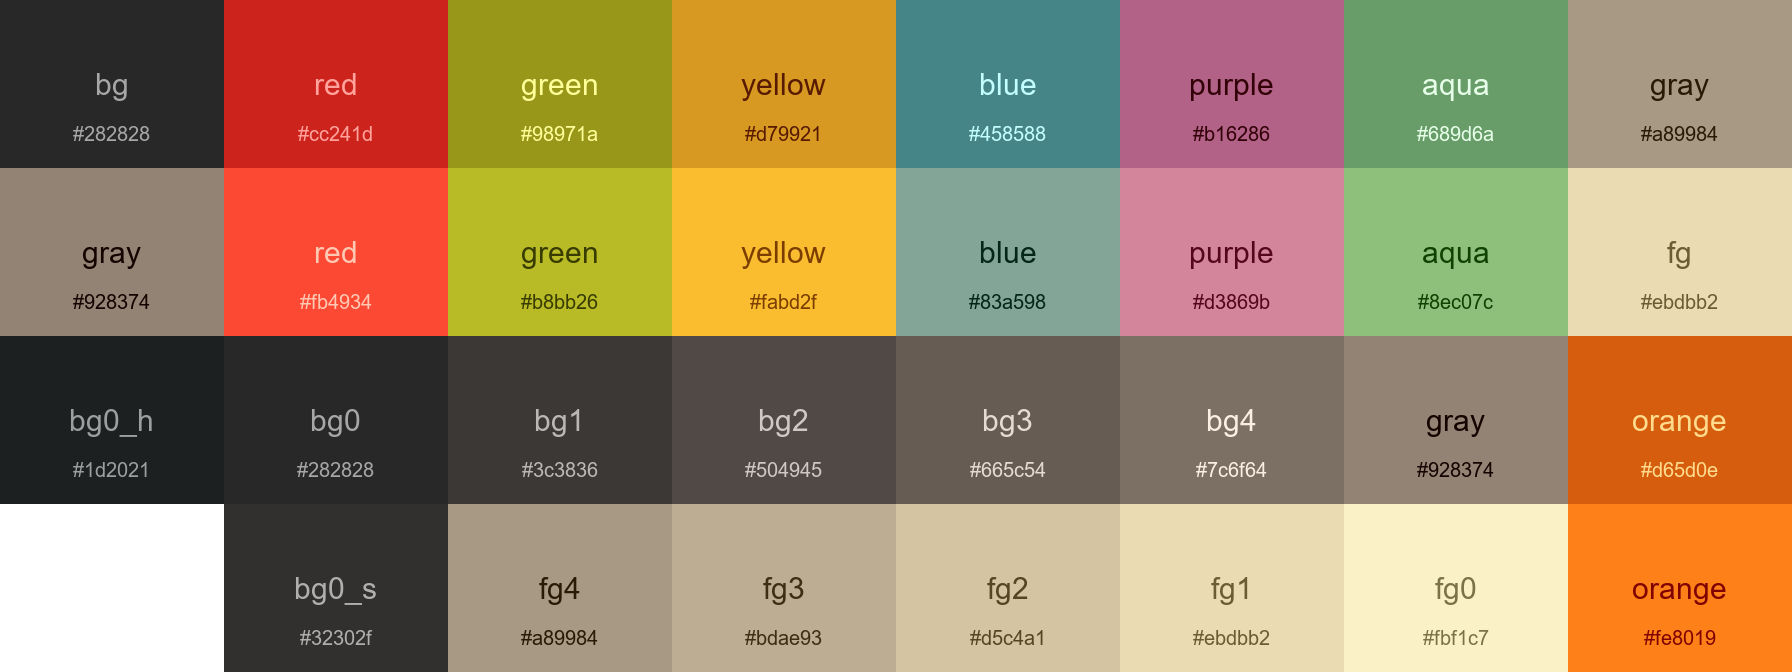
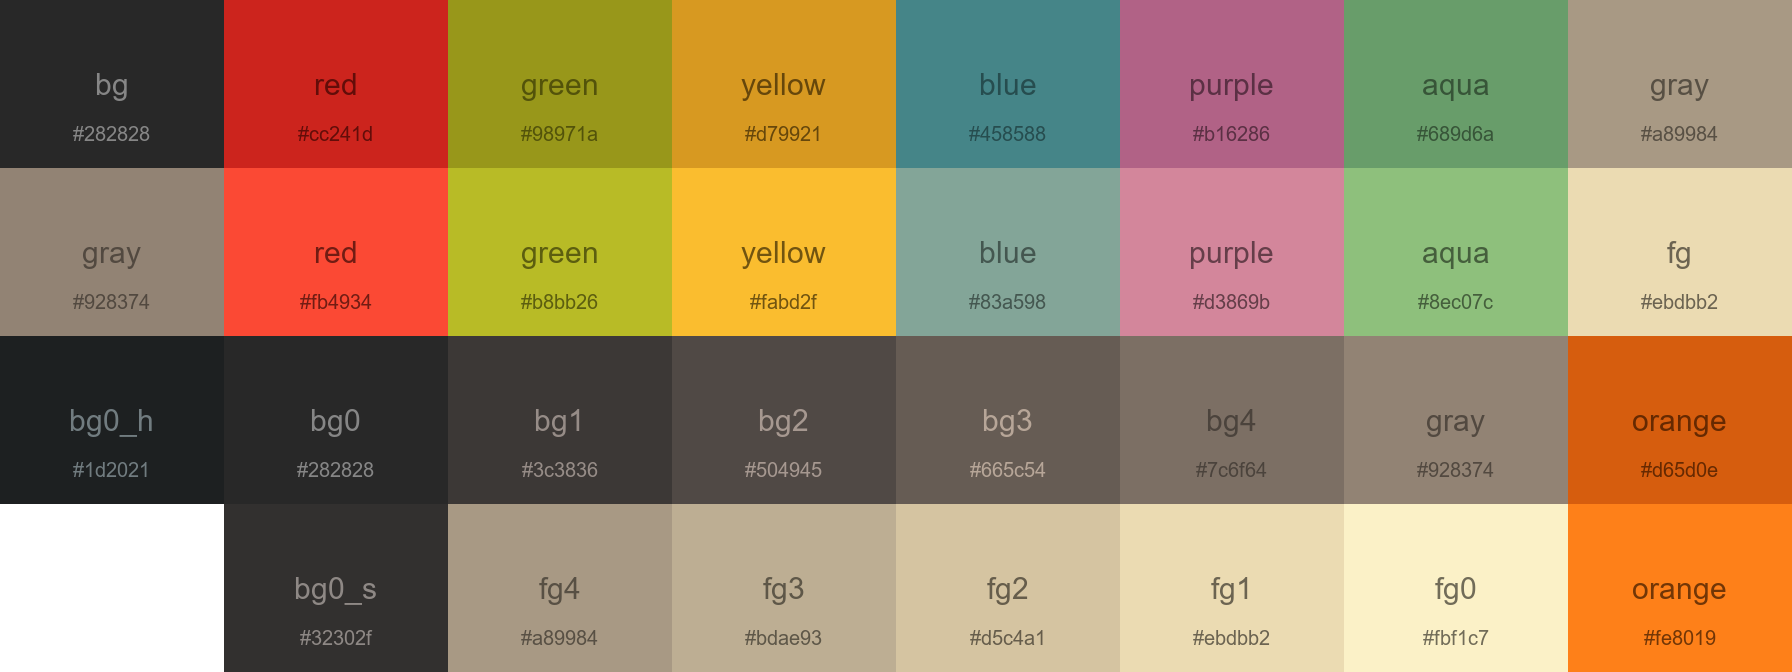
version 2

diff --git a/main.py b/main.py
@@ -1,31 +1,10 @@
+from palette import palette
 from classes import *
 from PIL import Image, ImageDraw, ImageFont
 
-# gruvbox example, each internal array is one line - you can also use a 1d list if you don't care about the exact size
-# Color can be created with RGB: (100, 255, 100), HSV: (0.5, 0.3, 2.3) or HEX: '#273fad'
-# you can also pass None instead of a color to skip a place
-palette = [
-    [
-        Color('#282828', 'bg'),   Color('#cc241d', 'red'),    Color('#98971a', 'green'), Color('#d79921', 'yellow'),
-        Color('#458588', 'blue'), Color('#b16286', 'purple'), Color('#689d6a', 'aqua'),  Color('#a89984', 'gray')
-    ],
-    [
-        Color('#928374', 'gray'), Color('#fb4934', 'red'),    Color('#b8bb26', 'green'), Color('#fabd2f', 'yellow'),
-        Color('#83a598', 'blue'), Color('#d3869b', 'purple'), Color('#8ec07c', 'aqua'),  Color('#ebdbb2', 'fg')
-    ],
-    [
-        Color('#1d2021', 'bg0_h'), Color('#282828', 'bg0'), Color('#3c3836', 'bg1'),  Color('#504945', 'bg2'),
-        Color('#665c54', 'bg3'),   Color('#7c6f64', 'bg4'), Color('#928374', 'gray'), Color('#d65d0e', 'orange')
-    ],
-    [
-        None,                    Color('#32302f', 'bg0_s'), Color('#a89984', 'fg4'), Color('#bdae93', 'fg3'),
-        Color('#d5c4a1', 'fg2'), Color('#ebdbb2', 'fg1'),   Color('#fbf1c7', 'fg0'), Color('#fe8019', 'orange')
-    ]
-]
-
 
 def main():
-    t = Table(palette)
+    t = Palette(palette)
     img = Image.new('RGBA', (t.width * t.gridWidth, t.height * t.gridHeight))
     imgd = ImageDraw.Draw(img)
     for i in range(t.height):
@@ -34,12 +13,11 @@ def main():
             top = i * t.gridHeight
             color = t.colors[i][j] if t.literalOrder else t.colors[t.width * i + j]
             if color:
+                textCol = color.textCol().rgb
                 imgd.rectangle(
                     ((left, top), (left + t.gridWidth - 1, top + t.gridHeight - 1)),
-                    fill=color.color
+                    fill=color.rgb
                 )
-                isDark = True if sum(color.color)/3 <= 127 else False
-                textCol = tuple([int(a+127) for a in color.color]) if isDark else tuple([int(a-127) for a in color.color])
                 if color.name:
                     imgd.text(
                         (left + t.gridWidth / 2, top + t.gridHeight / 2),
@@ -50,7 +28,7 @@ def main():
                     )
                     imgd.text(
                         (left + t.gridWidth / 2, top + t.gridHeight / 2 + 50),
-                        '#%02x%02x%02x' % color.color,
+                        '#%02x%02x%02x' % color.rgb,
                         font=ImageFont.truetype('arial.ttf', size=20),
                         fill=textCol,
                         anchor='mm'
@@ -58,7 +36,7 @@ def main():
                 else:
                     imgd.text(
                         (left + t.gridWidth/2, top + t.gridHeight/2),
-                        '#%02x%02x%02x' % color.color,
+                        '#%02x%02x%02x' % color.rgb,
                         font=ImageFont.truetype('arial.ttf', size=30),
                         fill=textCol,
                         anchor='mm'

diff --git a/classes.py b/classes.py
@@ -1,5 +1,5 @@
 from dataclasses import dataclass
-from colorsys import hsv_to_rgb
+from colorsys import hsv_to_rgb, rgb_to_hsv
 import math
 from PIL import ImageColor
 from typing import Union
@@ -7,22 +7,52 @@ from typing import Union
 
 @dataclass
 class Color:
-    color: tuple[int, int, int]
     name: str
+    hex: str
+    rgb: tuple[int, int, int]
+    hsv: tuple[float, float, float]
+    isDark: bool
 
     def __init__(self, color: Union[str, tuple[float, float, float], tuple[int, int, int]], name: str = None):
-        self.color = (
-            ImageColor.getcolor(color, 'RGB')
-            if type(color) == str
-            else tuple(int(a*255) for a in hsv_to_rgb(*color))
-            if type(color[0]) == float
-            else color
-        )
+        if type(color) == str:
+            self.hex = color
+            self.rgb = ImageColor.getcolor(color, 'RGB')
+            self.hsv = rgb_to_hsv(*(float(a)/255 for a in self.rgb))
+        elif type(color[0]) == int:
+            self.rgb = color
+            self.hex = '#%02x%02x%02x' % color
+            self.hsv = rgb_to_hsv(*(float(a)/255 for a in color))
+        elif type(color[0]) == float:
+            self.hsv = color
+            self.rgb = tuple(int(a*255) for a in hsv_to_rgb(*color))
+            self.hex = '#%02x%02x%02x' % self.rgb
         self.name = name
+        self.isDark = self.hsv[2] < 0.7
+
+    def textCol(self) -> "Color":
+        (r, g, b) = [  # normalized RGB
+            float(a)/255
+            for a in self.rgb
+        ]
+        (r, g, b) = [  # linearized RGB
+            b / 12.92 if b < 0.04045 else math.pow((b + 0.055) / 1.055, 2.4)
+            for b in [r, g, b]
+        ]
+        lum = 0.2126 * r + 0.7152 * g + 0.0722 * b  # luminance
+        (h, s, v) = self.hsv
+        perc = (  # perceived brightness
+            (lum*24389/27)/100
+            if lum <= 216/24389
+            else (math.pow(lum, 1/3)*116-16)/100
+        )
+        if perc < 0.4:
+            return Color((h, s * 0.95, v * 1.2 + (1. - v) * 0.4))  # correct for low contrast (dark)
+        else:
+            return Color((h, s * 1.05, v * 0.45 + (1. - v) * 0.15))  # correct for low contrast (light)
 
 
 @dataclass
-class Table:
+class Palette:
     colors: Union[list[Color], list[list[Union[Color, None]]]]
     literalOrder: bool
     height: int

diff --git a/palette.py b/palette.py
@@ -1,0 +1,27 @@
+from classes import Color
+
+# recreated gruvbox preview as an example
+# you can use a 1d list if you want an autogenerated table - it will find the smallest rectangle to fit all elements
+#   (will actually find the biggest square smaller than the amount of items then extend the width until everything fits)
+#   and position the colors left-to-right top-to-bottom until it runs out
+# you can also use a 2d list, such as the one in the example, to specify positions explicitly
+#   each internal array is one row, starting at the top
+# you can place a None anywhere in the table to leave one spot empty (transparent)
+palette = [
+    [
+        Color('#282828', 'bg'),   Color('#cc241d', 'red'),    Color('#98971a', 'green'), Color('#d79921', 'yellow'),
+        Color('#458588', 'blue'), Color('#b16286', 'purple'), Color('#689d6a', 'aqua'),  Color('#a89984', 'gray')
+    ],
+    [
+        Color('#928374', 'gray'), Color('#fb4934', 'red'),    Color('#b8bb26', 'green'), Color('#fabd2f', 'yellow'),
+        Color('#83a598', 'blue'), Color('#d3869b', 'purple'), Color('#8ec07c', 'aqua'),  Color('#ebdbb2', 'fg')
+    ],
+    [
+        Color('#1d2021', 'bg0_h'), Color('#282828', 'bg0'), Color('#3c3836', 'bg1'),  Color('#504945', 'bg2'),
+        Color('#665c54', 'bg3'),   Color('#7c6f64', 'bg4'), Color('#928374', 'gray'), Color('#d65d0e', 'orange')
+    ],
+    [
+        None,                    Color('#32302f', 'bg0_s'), Color('#a89984', 'fg4'), Color('#bdae93', 'fg3'),
+        Color('#d5c4a1', 'fg2'), Color('#ebdbb2', 'fg1'),   Color('#fbf1c7', 'fg0'), Color('#fe8019', 'orange')
+    ]
+]

diff --git a/README.md b/README.md
@@ -3,5 +3,8 @@
 Creates a palette preview image by using given color values  
 Based on the great gruvbox theme, where even the preview is impressive:![gruvbox theme](https://camo.githubusercontent.com/410b3ab80570bcd5b470a08d84f93caa5b4962ccd994ebceeb3d1f78364c2120/687474703a2f2f692e696d6775722e636f6d2f776136363678672e706e67)
 
-Version 1 - made in an hour, quality confirms it :p
-![version 1](result.png)
+Version 2 - made in a day, got text contrast to about where I want it
+![Current version](result.png)
+
+Archive of past results - to laugh or cry:  
+[Version 1](version1.png) - made in an hour, quality confirms it :p
